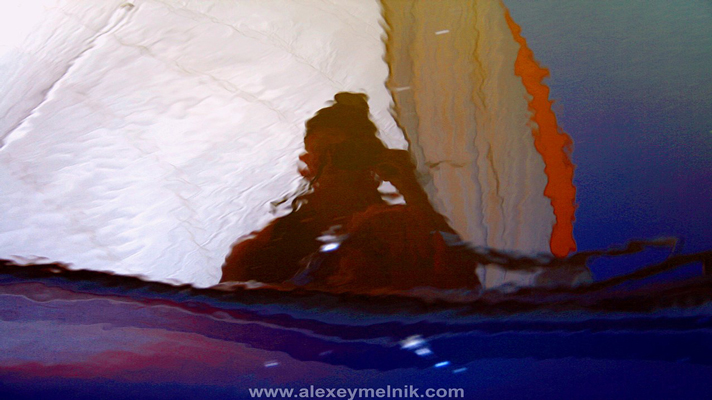
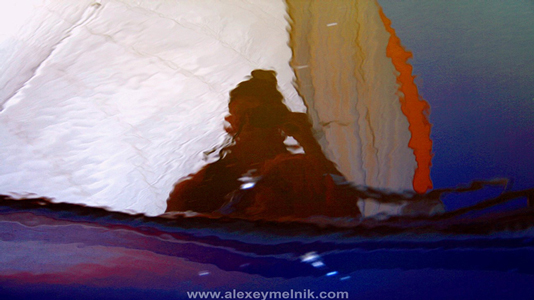
Slider shrinked from 400 to 300px as in layout

diff --git a/assets/css/styles.css b/assets/css/styles.css
@@ -134,13 +134,13 @@ header {
 }
 .logo img {
   display: block;
-  width: 17%;
+  width: 14%;
   margin: 30px auto;
 }
 /*Flickity styles*/
  .carousel-cell {
    margin-right: 20px;
-   height: 400px;
+   height: 300px;
    border: 10px solid white;
    counter-increment: gallery-cell;
  }
